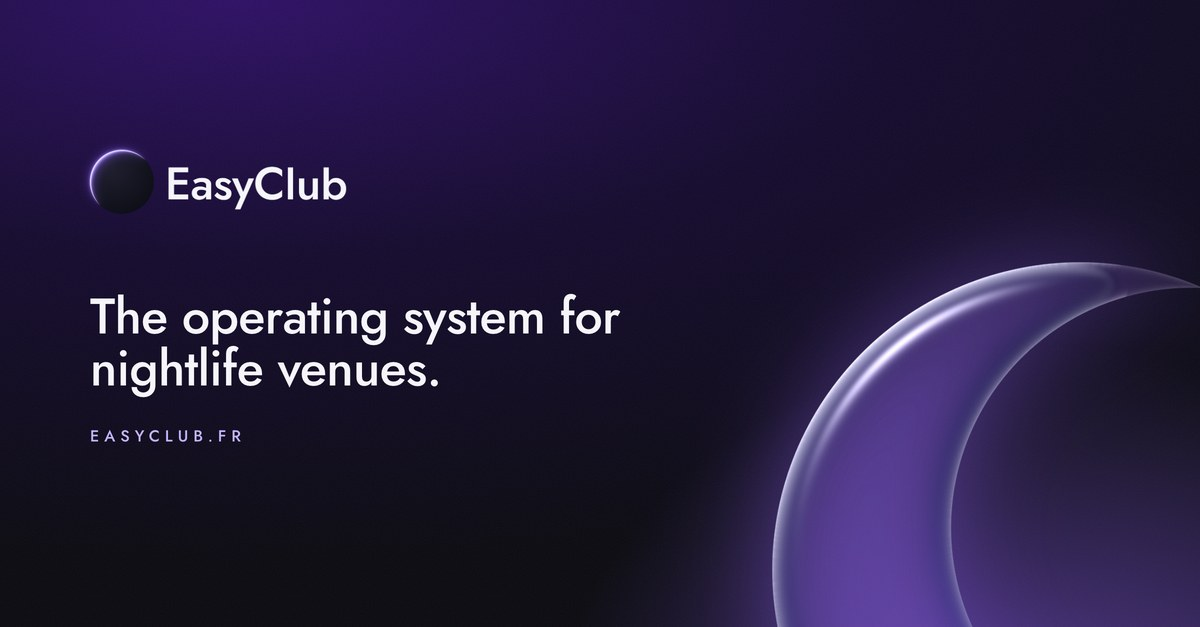
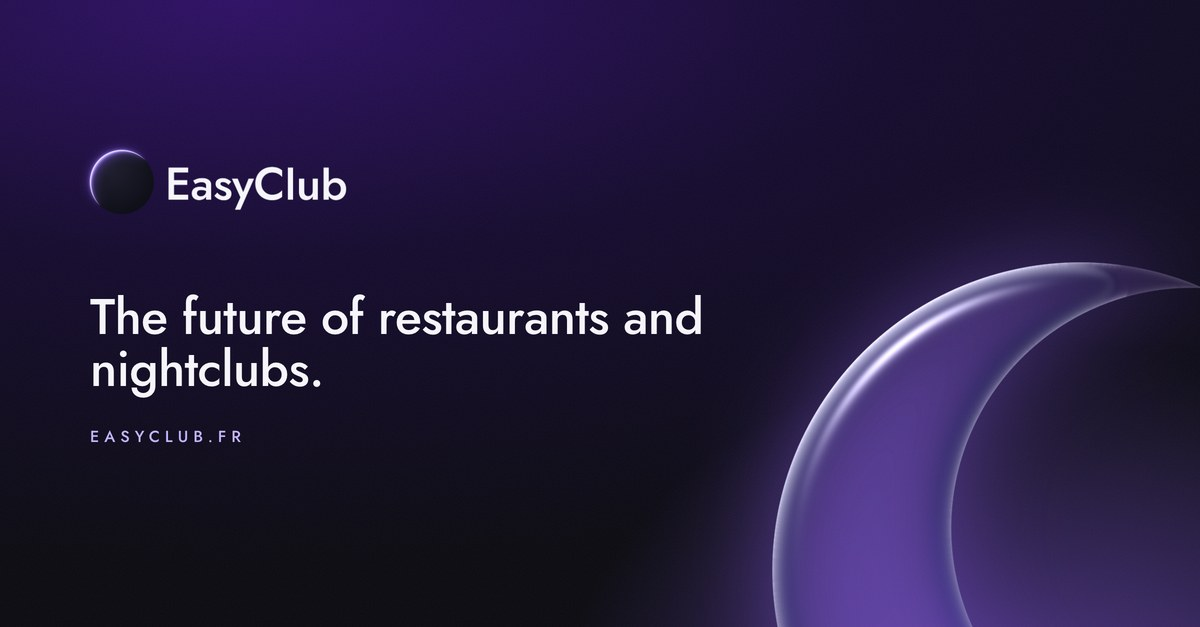
fix(site): vérification avant mise en ligne — build Cloudflare, cohérence, accessibilité
- Build Cloudflare Pages : la page 404 réécrite n'était plus déclarée edge ;
  next-on-pages refusait le build, la mise en production aurait échoué. Elle
  est statique (comme avant) et bilingue, faute de connaître le pays.
- Chiffres des démos recalés sur les données de l'app : 2 Negroni + 2 soles
  = 134 € (et non 112) ; la commande Caves du Rocher reprend les références
  réellement sous leur seuil ; la réservation de Morel passe à samedi prochain
  (T11, la seule table de 8, est prise ce soir) ; le planning ne cite plus de
  dates qui contredisaient « la semaine prochaine ».
- « Fait pour la salle, pas pour le bureau » contredisait l'accent mis sur le
  back-office : « Solide, même un samedi soir. »
- Confidentialité : l'adresse pointait vers easyclub.app ; la page décrit
  désormais ce que fait vraiment le site (ni formulaire, ni traceur, un
  cookie de langue posé à la demande).
- Plan du site et robots.txt : l'ancien sitemap listait easyclub.app et une
  page /ui disparue ; image de partage à la nouvelle accroche.
- « Moins d'animations » : rendu différent avant l'hydratation (erreur React
  418) ; le halo de l'iPad débordait à 1280 px ; le titre se lisait
  « restaurantset » pour les lecteurs d'écran.
- scripts/review/audit.mjs : audit sur six profils de visite.

Changed region(s): [[0.1233, 0.4545, 0.5858, 0.6364], [0.1542, 0.2727, 0.185, 0.3333], [0.0925, 0.6061, 0.1233, 0.6364]]

diff --git a/apps/web/src/app/legal/confidentialite/page.tsx b/apps/web/src/app/legal/confidentialite/page.tsx
@@ -1,20 +1,83 @@
+import Link from 'next/link';
+
 import { Footer } from '@/components/footer';
 import { Nav } from '@/components/nav';
 import { Section } from '@/components/section';
+import { CONTACT } from '@/lib/site';
 
 export const dynamic = 'force-dynamic';
 export const runtime = 'edge';
 
-const content =
-  'Politique de confidentialité. Données minimisées, chiffrées en transit et au repos. Aucune revente. Droit d’accès et de suppression sur demande. Contact : privacy@easyclub.app';
+export const metadata = { title: 'Confidentialité — EasyClub' };
 
+function Bloc({
+  titre,
+  children,
+}: {
+  titre: string;
+  children: React.ReactNode;
+}): React.JSX.Element {
+  return (
+    <div className="border-t border-white/10 py-6 first:border-t-0 first:pt-0">
+      <h3 className="mb-3 text-lg font-semibold">{titre}</h3>
+      <div className="text-mute space-y-1.5 leading-relaxed">{children}</div>
+    </div>
+  );
+}
+
+/** Ce que fait réellement ce site : ni compte, ni formulaire, ni traceur ; un cookie de langue, posé à la demande. */
 export default function ConfidentialitePage(): React.JSX.Element {
   return (
     <>
       <Nav />
       <main>
         <Section title="Confidentialité">
-          <p className="text-mute max-w-3xl">{content}</p>
+          <div className="max-w-3xl">
+            <Bloc titre="Responsable du traitement">
+              <p>
+                JLM GROUP SAS, éditrice d’EasyClub (voir les{' '}
+                <Link className="underline underline-offset-4" href="/legal/mentions-legales">
+                  mentions légales
+                </Link>
+                ).
+              </p>
+            </Bloc>
+            <Bloc titre="Ce que ce site collecte">
+              <p>
+                Ce site ne comporte ni compte, ni formulaire, ni mesure d’audience, ni traceur
+                publicitaire.
+              </p>
+              <p>
+                La langue s’affiche d’après le pays de votre connexion, que notre hébergeur
+                Cloudflare indique à chaque visite ; nous ne le conservons pas.
+              </p>
+              <p>
+                Un seul cookie, <code>NEXT_LOCALE</code>, est déposé, et seulement si vous changez
+                de langue avec le sélecteur : il garde ce choix un an.
+              </p>
+            </Bloc>
+            <Bloc titre="Hébergement">
+              <p>
+                Cloudflare traite les données techniques de connexion (adresse IP, journaux) pour
+                servir et protéger le site.
+              </p>
+            </Bloc>
+            <Bloc titre="Quand vous nous écrivez">
+              <p>
+                Si vous nous écrivez ou nous appelez, vos coordonnées servent uniquement à vous
+                répondre et à organiser une démo. Elles ne sont ni revendues ni cédées.
+              </p>
+            </Bloc>
+            <Bloc titre="Vos droits">
+              <p>
+                Accès, rectification, effacement, opposition :{' '}
+                <a className="underline underline-offset-4" href={`mailto:${CONTACT.email}`}>
+                  {CONTACT.email}
+                </a>
+                . Vous pouvez aussi saisir la CNIL (cnil.fr).
+              </p>
+            </Bloc>
+          </div>
         </Section>
       </main>
       <Footer />

diff --git a/apps/web/src/components/home/connected.tsx b/apps/web/src/components/home/connected.tsx
@@ -1,6 +1,6 @@
 'use client';
 
-import { motion, useInView, useReducedMotion } from 'framer-motion';
+import { motion, useInView } from 'framer-motion';
 import {
   Armchair,
   BarChart3,
@@ -14,7 +14,7 @@ import {
 import { useTranslations } from 'next-intl';
 import * as React from 'react';
 
-import { EASE, Reveal, Words } from '@/components/ui/motion';
+import { EASE, Reveal, useCalm, Words } from '@/components/ui/motion';
 import { cn } from '@/lib/utils';
 
 /** Le parcours d'un client à travers les apps, avec l'icône et la couleur de chaque app. */
@@ -39,11 +39,16 @@ export function Connected(): React.JSX.Element {
   const steps = t.raw('steps') as Array<{ app: string; text: string }>;
   const ref = React.useRef<HTMLDivElement>(null);
   const visible = useInView(ref, { margin: '-15% 0px -15% 0px' });
-  const reduce = useReducedMotion();
-  const [lit, setLit] = React.useState(reduce ? steps.length - 1 : -1);
+  const reduce = useCalm();
+  const [lit, setLit] = React.useState(-1);
 
   React.useEffect(() => {
-    if (!visible || reduce) {
+    if (reduce) {
+      // sans animation : tout le parcours, allumé d'emblée
+      setLit(steps.length - 1);
+      return;
+    }
+    if (!visible) {
       return;
     }
     // la lumière avance d'app en app, s'attarde sur la dernière, puis la soirée recommence

diff --git a/apps/web/src/app/not-found.tsx b/apps/web/src/app/not-found.tsx
@@ -1,8 +1,15 @@
 import Link from 'next/link';
 import { useTranslations } from 'next-intl';
 
+import en from '../../messages/en.json';
+
 import { Footer } from '@/components/footer';
 import { Nav } from '@/components/nav';
+
+// Cloudflare Pages (next-on-pages) n'accepte qu'une page 404 statique : elle est donc rendue une fois,
+// sans connaître le pays de la visite, et dit l'essentiel dans les deux langues.
+export const runtime = 'edge';
+export const dynamic = 'force-static';
 
 export default function NotFound(): React.JSX.Element {
   const t = useTranslations('notFound');
@@ -13,11 +20,14 @@ export default function NotFound(): React.JSX.Element {
         <img src="/brand/eclipse.svg" alt="" className="w-24" />
         <h1 className="display mt-8 text-[clamp(32px,5vw,56px)]">{t('title')}</h1>
         <p className="text-mute mt-3">{t('text')}</p>
+        <p lang="en" className="text-faint mt-6 text-[15px]">
+          {en.notFound.title} {en.notFound.text}
+        </p>
         <Link
           href="/"
           className="bg-moon text-night mt-8 rounded-full px-6 py-3 text-[15px] font-semibold"
         >
-          {t('back')}
+          {t('back')} · <span lang="en">{en.notFound.back}</span>
         </Link>
       </main>
       <Footer />

diff --git a/apps/web/src/components/home/free.tsx b/apps/web/src/components/home/free.tsx
@@ -1,6 +1,6 @@
 'use client';
 
-import { motion, useReducedMotion, useScroll, useTransform, type MotionValue } from 'framer-motion';
+import { motion, useScroll, useTransform, type MotionValue } from 'framer-motion';
 import {
   Armchair,
   BarChart3,
@@ -19,7 +19,7 @@ import {
 import { useTranslations } from 'next-intl';
 import * as React from 'react';
 
-import { Reveal, Words } from '@/components/ui/motion';
+import { Reveal, useCalm, Words } from '@/components/ui/motion';
 
 /** Une icône par abonnement remplacé (même ordre que `free.subs` dans les messages). */
 const ICONS: LucideIcon[] = [
@@ -55,7 +55,7 @@ const SPOTS: Array<[x: number, y: number, rotate: number]> = [
  */
 export function Free(): React.JSX.Element {
   const t = useTranslations('free');
-  const reduce = useReducedMotion();
+  const reduce = useCalm();
   const ref = React.useRef<HTMLDivElement>(null);
   const { scrollYProgress: p } = useScroll({ target: ref, offset: ['start start', 'end end'] });
   const subs = t.raw('subs') as string[];

diff --git a/apps/web/src/components/ui/motion.tsx b/apps/web/src/components/ui/motion.tsx
@@ -7,6 +7,17 @@ import { cn } from '@/lib/utils';
 
 export const EASE = [0.2, 0.8, 0.2, 1] as const;
 
+/**
+ * « Moins d'animations » demandé, mais seulement une fois la page montée : le serveur ne connaît pas ce
+ * réglage, et un rendu qui en dépend dès l'hydratation ne correspondrait pas au HTML reçu.
+ */
+export function useCalm(): boolean {
+  const reduce = useReducedMotion();
+  const [mounted, setMounted] = React.useState(false);
+  React.useEffect(() => setMounted(true), []);
+  return mounted && Boolean(reduce);
+}
+
 /** Apparaît en montant légèrement, en sortant du flou, quand l'élément entre dans l'écran. */
 export function Reveal({
   children,

diff --git a/apps/web/next-sitemap.config.js b/apps/web/next-sitemap.config.js
@@ -1,7 +1,15 @@
-/** @type {import('next-sitemap').IConfig} */
+/**
+ * Réécrit public/robots.txt à chaque build (postbuild). Les pages étant toutes rendues à la demande
+ * (runtime edge), next-sitemap n'en liste aucune : le plan du site est tenu à la main dans
+ * public/sitemap.xml, et robots.txt y renvoie.
+ * @type {import('next-sitemap').IConfig}
+ */
 module.exports = {
   siteUrl: 'https://easyclub.fr',
   generateRobotsTxt: true,
   generateIndexSitemap: false,
   exclude: ['/api/**'],
+  robotsTxtOptions: {
+    additionalSitemaps: ['https://easyclub.fr/sitemap.xml'],
+  },
 };

diff --git a/apps/web/src/components/home/built-for-night.tsx b/apps/web/src/components/home/built-for-night.tsx
@@ -22,7 +22,7 @@ import { cn } from '@/lib/utils';
 export function BuiltForNight(): React.JSX.Element {
   const t = useTranslations('night');
   return (
-    <section id="nuit" className="relative py-28 sm:py-36">
+    <section id="nuit" className="relative overflow-x-clip py-28 sm:py-36">
       <div className="max-w-site mx-auto px-5 sm:px-8">
         <Reveal>
           <p className="eyebrow">{t('eyebrow')}</p>

diff --git a/apps/web/src/components/home/tour.tsx b/apps/web/src/components/home/tour.tsx
@@ -23,7 +23,7 @@ export function Tour(): React.JSX.Element {
   const t = useTranslations('tour');
   const steps = t.raw('steps') as Step[];
   return (
-    <section id="app" className="relative py-28 sm:py-36">
+    <section id="app" className="relative overflow-x-clip py-28 sm:py-36">
       <div className="max-w-site mx-auto px-5 sm:px-8">
         <Reveal>
           <p className="eyebrow">{t('eyebrow')}</p>

diff --git a/apps/web/src/components/home/hero.tsx b/apps/web/src/components/home/hero.tsx
@@ -69,6 +69,8 @@ export function Hero(): React.JSX.Element {
               >
                 {line}
               </motion.span>
+              {/* l'espace entre les deux lignes, pour les lecteurs d'écran et les moteurs de recherche */}
+              {i === 0 ? ' ' : null}
             </span>
           ))}
         </h1>
